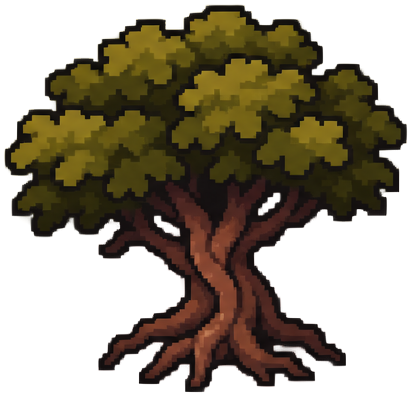
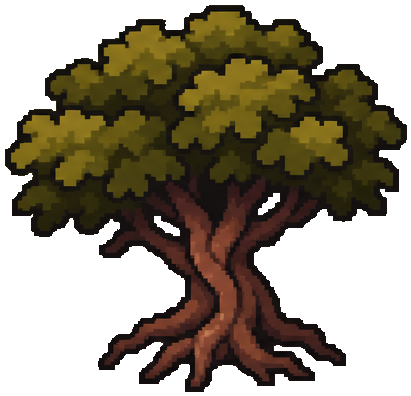
2094: tree_tw alpha hardened, tile seam measure at the paving's 160 px repeat

diff --git a/tools/measure/assets/tileseam.py b/tools/measure/assets/tileseam.py
@@ -2,14 +2,17 @@
 # 300-1500 x 130-880 (clear of the top-left HUD, the minimap at x > 1530 and the bottom panel); the camera offset is unknown, so the score is
 # the best phase over the mean of the phases of its own 2-px parity (the art grid alone would double it): 1.00 = no grid, > 1.15 shows tile lines. Also the 2-px parity (best of x mod 2 over the mean): the
 # art-pixel grid, ~2 = every edge on one parity (on the 2-px grid), 1.0 = edges anywhere (off grid, resampled art).
+# T=160 (env): the period of the town paving's repeat (PAVE_TS) at zoom 1. Its courses fall on the 32-px cell, so at T=32 masonry and a
+# repeat's seam peak on the same phase; rep is the best phase over the mean of the phases on the same cell grid (≡ mod 32), the masonry
+# common to all of them: 1.00 = the repeat's seam does not show, > 1.15 it does (TASKS 2094, critic round 9).
 import os, sys, numpy as np
 from PIL import Image
 ROOT = os.environ.get('ROOT') or os.path.abspath(os.path.join(os.path.dirname(__file__), '..', '..', '..'))
-T = 32
+T = int(os.environ.get('T', 32)); CELL = 32
 def L(a):
     a = a / 255.0; a = np.where(a <= 0.04045, a / 12.92, ((a + 0.055) / 1.055) ** 2.4); y = a @ [0.2126, 0.7152, 0.0722]
     return np.where(y > 0.008856, 116 * np.cbrt(y) - 16, 903.3 * y)
-print(f"{'frame':28s} tileX tileY  px2X  px2Y")
+print(f"{'frame':28s} tileX tileY  px2X  px2Y" + ("  repX  repY" if T > CELL else ""))
 for f in sys.argv[1:]:
     p = f if os.path.isabs(f) else os.path.join(ROOT, f)
     l = L(np.asarray(Image.open(p).convert('RGB'))[130:880, 300:1500].astype(float))
@@ -17,4 +20,5 @@ for f in sys.argv[1:]:
     px = np.array([dx[:, i::T].mean() for i in range(T)]); py = np.array([dy[i::T, :].mean() for i in range(T)])
     qx = np.array([dx[:, i::2].mean() for i in range(2)]); qy = np.array([dy[i::2, :].mean() for i in range(2)])
     ex = lambda c: c.max() / c[np.argmax(c) % 2::2].mean()
-    print(f"{os.path.basename(f):28s} {ex(px):5.2f} {ex(py):5.2f}  {qx.max()/qx.mean():4.2f}  {qy.max()/qy.mean():4.2f}")
+    rep = lambda c: c.max() / c[np.argmax(c) % CELL::CELL].mean()
+    print(f"{os.path.basename(f):28s} {ex(px):5.2f} {ex(py):5.2f}  {qx.max()/qx.mean():4.2f}  {qy.max()/qy.mean():4.2f}" + (f"  {rep(px):4.2f}  {rep(py):4.2f}" if T > CELL else ""))

diff --git a/tools/fix_town_art_2094.py b/tools/fix_town_art_2094.py
@@ -9,6 +9,9 @@ PARAMS = {
     "disc_tw": {"sigma": 6, "groove_drop": 8, "offset": 7, "raise": 24, "darken": 6},
     "stairs_tw": {"a_min": 4, "b_max": 15, "l_mul": 0.84, "a_mul": 0.55},
     "forge_tw": {"a_min": 4, "b_max": 15, "l_mul": 0.84, "a_mul": 0.55},
+    # round 9: the soft fringe of the edge tree hid its ink ring; cut at half alpha, the ring under it is already closed. Fixed where the
+    # game loads it: the specks were cleaned there (2094), the art/gen source still has them
+    "tree_tw": {"cut": 128, "dir": "live/assets", "stamp": "20261116-2094b"},
 }
 WHITE = np.array([0.95047, 1.0, 1.08883])
 M = np.array([[0.4124564, 0.3575761, 0.1804375],
@@ -91,12 +94,19 @@ def lilac(rgb, a, p, report="L"):
     return from_lab(lab).astype(np.uint8), a
 
 
-FUNCS = {"runes_tw": runes, "disc_tw": disc, "stairs_tw": lilac, "forge_tw": lilac}
+def harden(rgb, a, p):
+    op = a > 0
+    a2 = np.where(a >= p["cut"], 255, 0).astype(np.uint8)
+    print("semi %.2f%% -> %.2f%%; opaque %d -> %d px" % (100 * ((a > 0) & (a < 255)).sum() / op.sum(), 0.0, op.sum(), (a2 > 0).sum()))
+    return rgb, a2
+
+
+FUNCS = {"runes_tw": runes, "disc_tw": disc, "stairs_tw": lilac, "forge_tw": lilac, "tree_tw": harden}
 
 
 def run(name):
-    src = "art/gen/%s.png" % name
-    bak = "art/old/%s-%s.png" % (name, STAMP)
+    src = "%s/%s.png" % (PARAMS[name].get("dir", "art/gen"), name)
+    bak = "art/old/%s-%s.png" % (name, PARAMS[name].get("stamp", STAMP))
     if os.path.exists(bak):
         sys.exit("backup exists: " + bak)
     im = Image.open(src).convert("RGBA")
